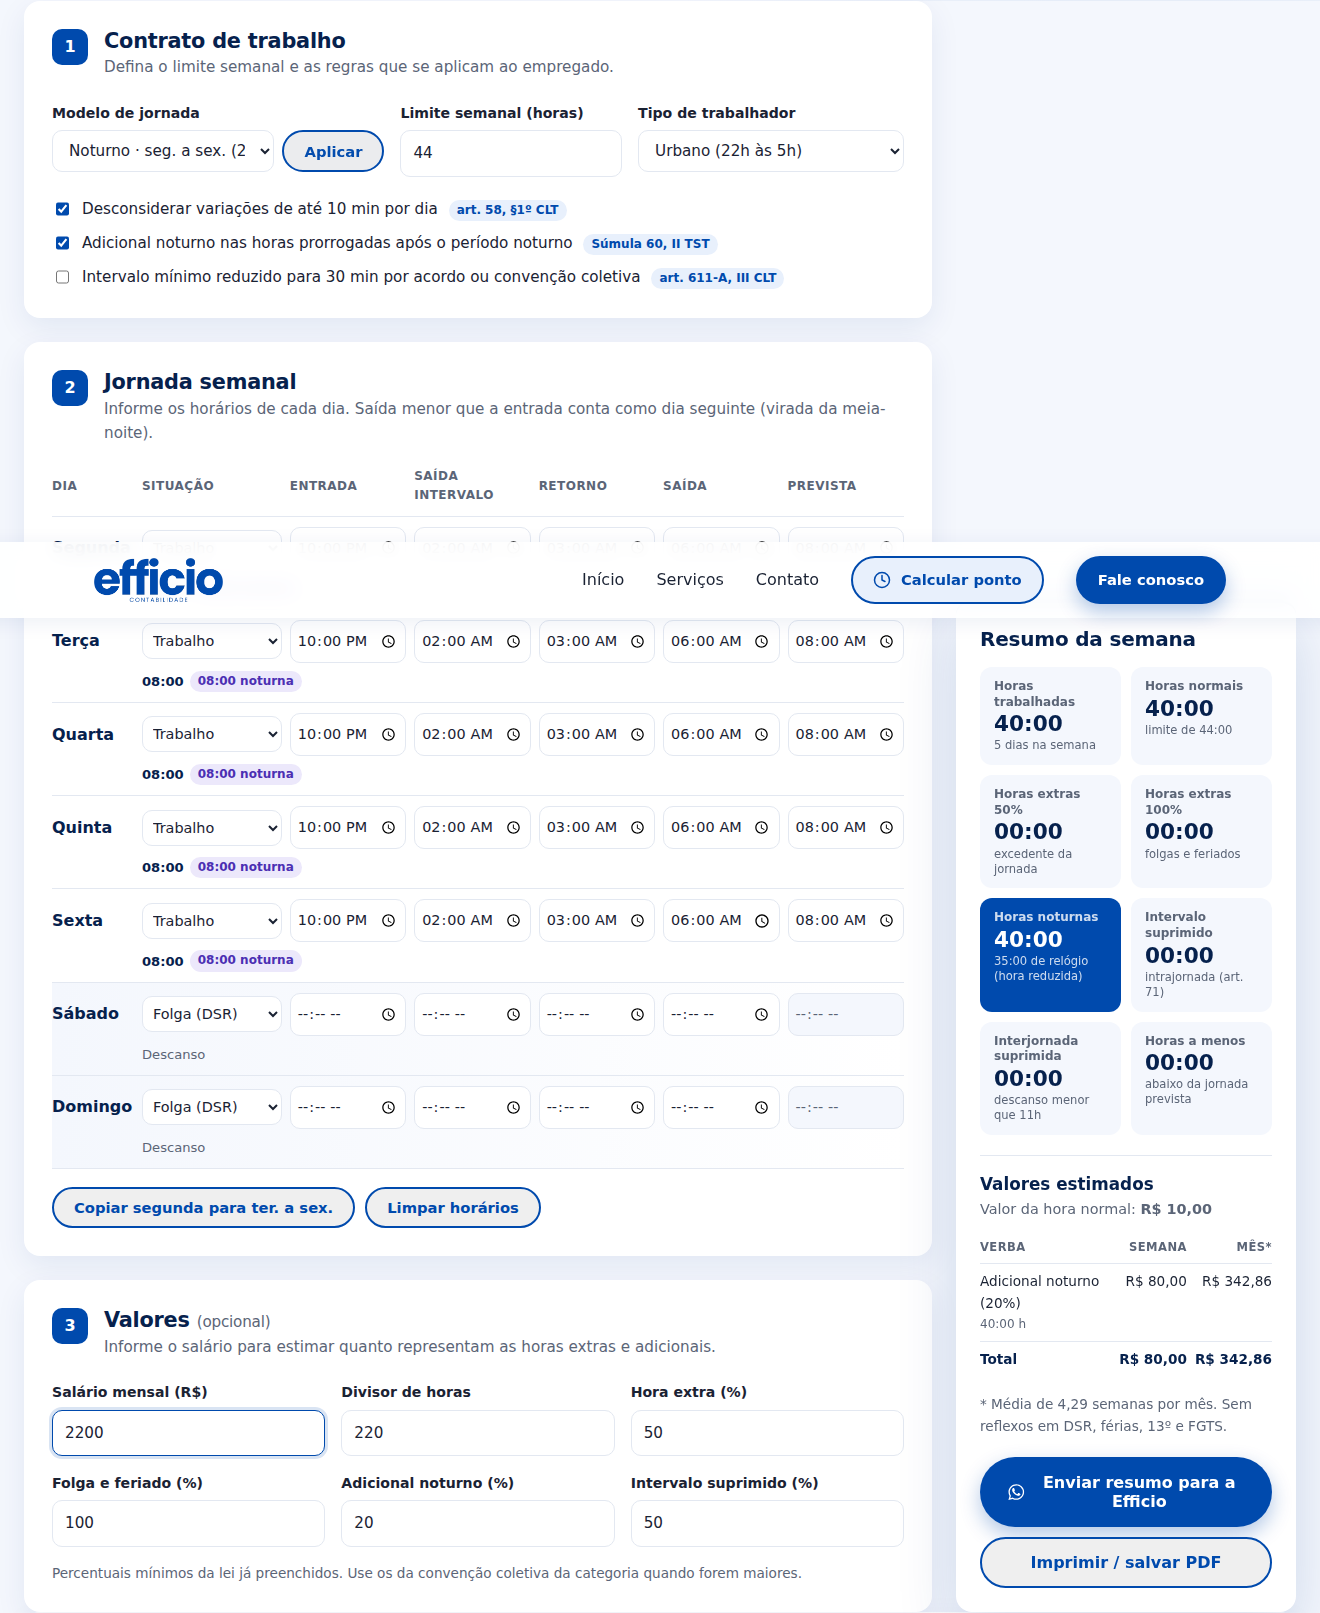
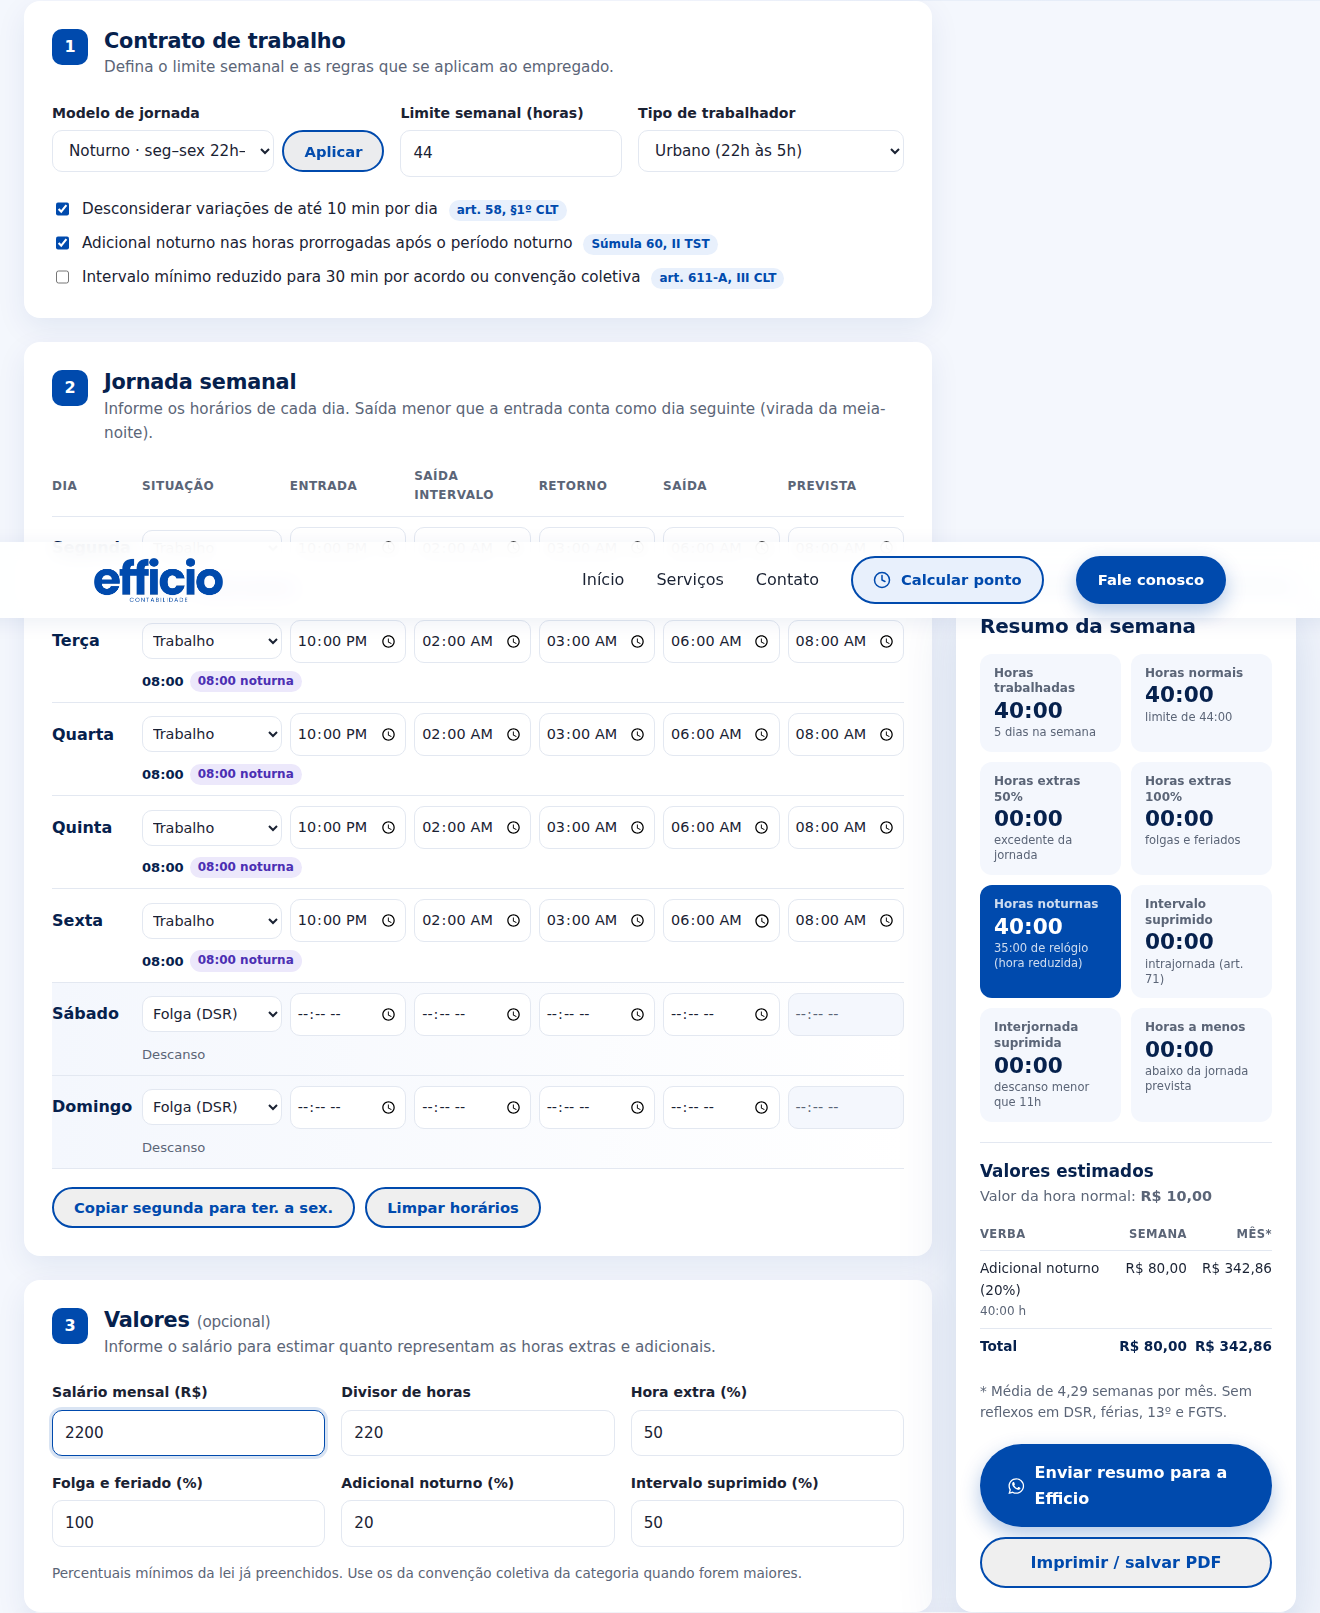
Botão de resumo pelo WhatsApp vira link com texto atualizado
Claude-Session: https://claude.ai/code/session_01CdBcNtV17otZK97YfZd6zk

Changed region(s): [[0.7455, 0.372, 0.9629, 0.9299], [0.8697, 0.558, 0.9318, 0.682]]

diff --git a/ponto.js b/ponto.js
@@ -219,6 +219,8 @@
       alertas.innerHTML = '<li class="alerta alerta--ok">Nenhuma irregularidade encontrada na jornada informada.</li>';
     }
 
+    document.getElementById("whatsapp").href =
+      "https://wa.me/" + WHATSAPP + "?text=" + encodeURIComponent(resumoTexto());
     salvar();
   }
 
@@ -281,9 +283,6 @@
 
   document.getElementById("imprimir").addEventListener("click", function () { window.print(); });
 
-  document.getElementById("whatsapp").addEventListener("click", function () {
-    window.open("https://wa.me/" + WHATSAPP + "?text=" + encodeURIComponent(resumoTexto()), "_blank", "noopener");
-  });
 
   if (!carregar()) aplicarModelo("44-5");
   else atualizar();

diff --git a/ponto.html b/ponto.html
@@ -186,10 +186,10 @@
           <div id="valores" class="valores" hidden></div>
 
           <div class="resultado__acoes">
-            <button type="button" class="btn btn--primary btn--block" id="whatsapp">
+            <a href="https://wa.me/5519996859637" class="btn btn--primary btn--block" id="whatsapp" target="_blank" rel="noopener">
               <svg aria-hidden="true" viewBox="0 0 24 24"><use href="#icon-whatsapp"/></svg>
               Enviar resumo para a Efficio
-            </button>
+            </a>
             <button type="button" class="btn btn--ghost btn--block" id="imprimir">Imprimir / salvar PDF</button>
           </div>
         </div>
